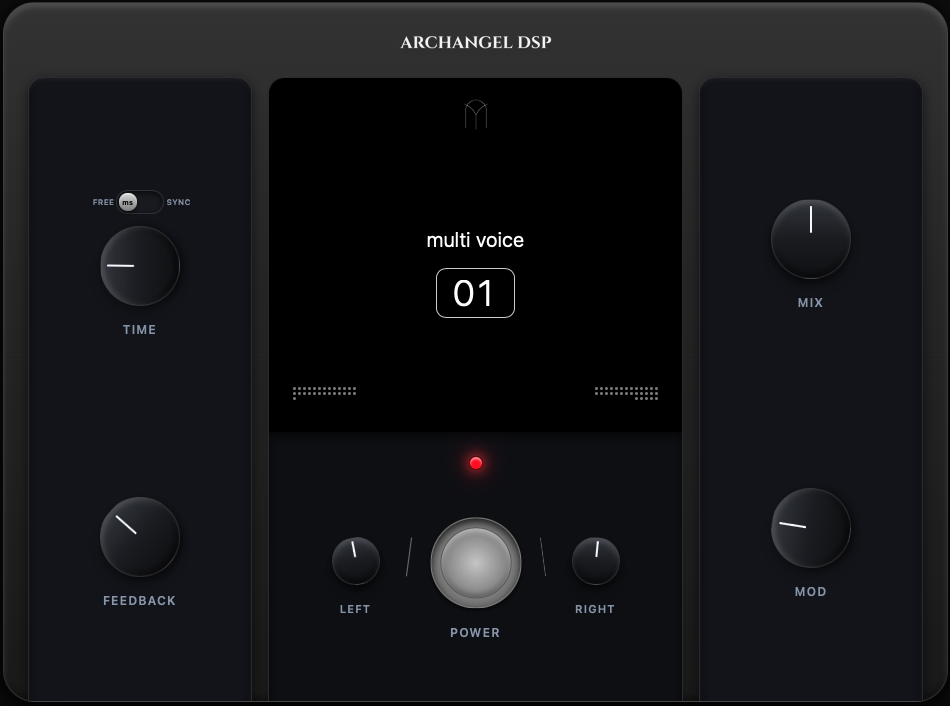
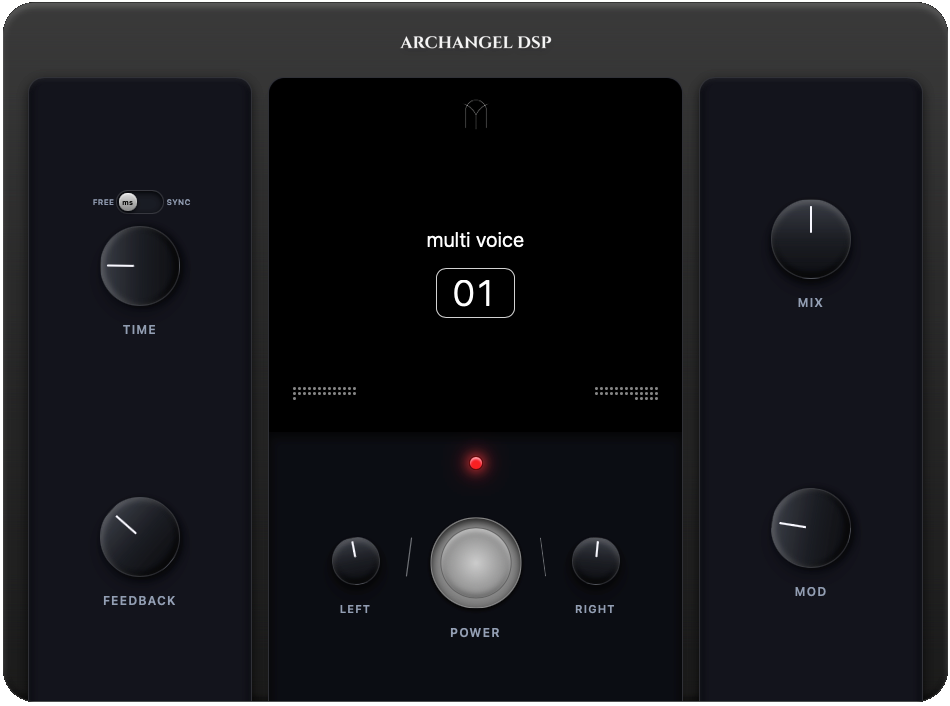
Update UI screenshot to transparent dark theme

Changed region(s): [[0.0, 0.0, 1.0, 1.0], [0.9463, 0.0, 1.0, 0.0623]]

diff --git a/README.md b/README.md
@@ -1,6 +1,6 @@
 # Arcadia Voices (AV) - Multi-Voice Pitch Delay Plugin
 
-![Arcadia Voices](https://github.com/jfachriz/ArcadiaVoices/blob/main/Assets/Delay_UI.png)
+![Arcadia Voices](Assets/Delay_UI.png)
 
 [![Sponsor](https://img.shields.io/badge/Sponsor-%E2%9D%A4-pink?logo=github)](https://github.com/sponsors/jfachriz)
 
@@ -222,7 +222,7 @@ Arcadia Voices does not collect or transmit any personal data. All preset storag
 
 ## 📝 Changelog
 
-### Version 1.0 (Current)
+### Version 1.1 (Current)
 - Initial release
 - VST3 and AU formats for macOS
 - Full feature set including pitch-shifting, tempo sync, and preset system